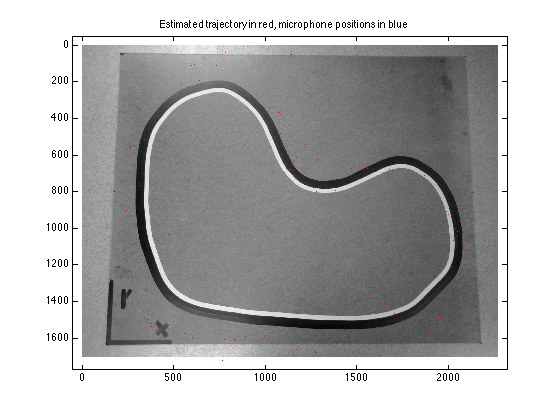
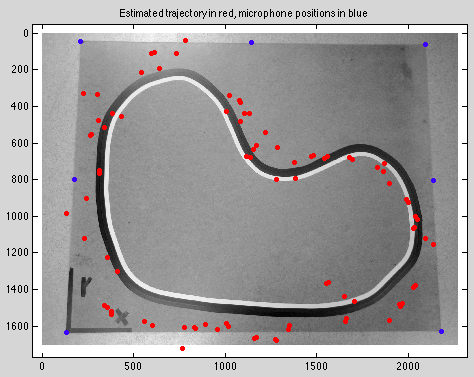
NLS Gauss done

diff --git a/TSRT14_rapport.tex b/TSRT14_rapport.tex
@@ -248,9 +248,13 @@ for k = 1:size(tphat, 1)
 end
 y = sig(yy, 2);
 \end{verbatim}
+
+
+
 \newpage
 \section{Configuration analysis}
 \label{Configuration analysis}
+
 
 
 \newpage
@@ -272,7 +276,16 @@ for i = 1:length(y.y)-1
 end
 SFlabCompEstimGroundTruth(est_target_pos, sensor_position');
 \end{verbatim}
+Using the time measurements and initial values contained in the sensor model, we can produce the output shown in the figure below.
+\begin{figure}[H]
+  \label{NLS_target_est}
+  \includegraphics[width = 350pt]{NLS_target_est.png}
+  \caption{NLS target estimation using Gauss-Newton}
+\end{figure}
 
+
+
+\newpage
 \subsection{TDOA approach}
 \label{TDOA approach}
 
